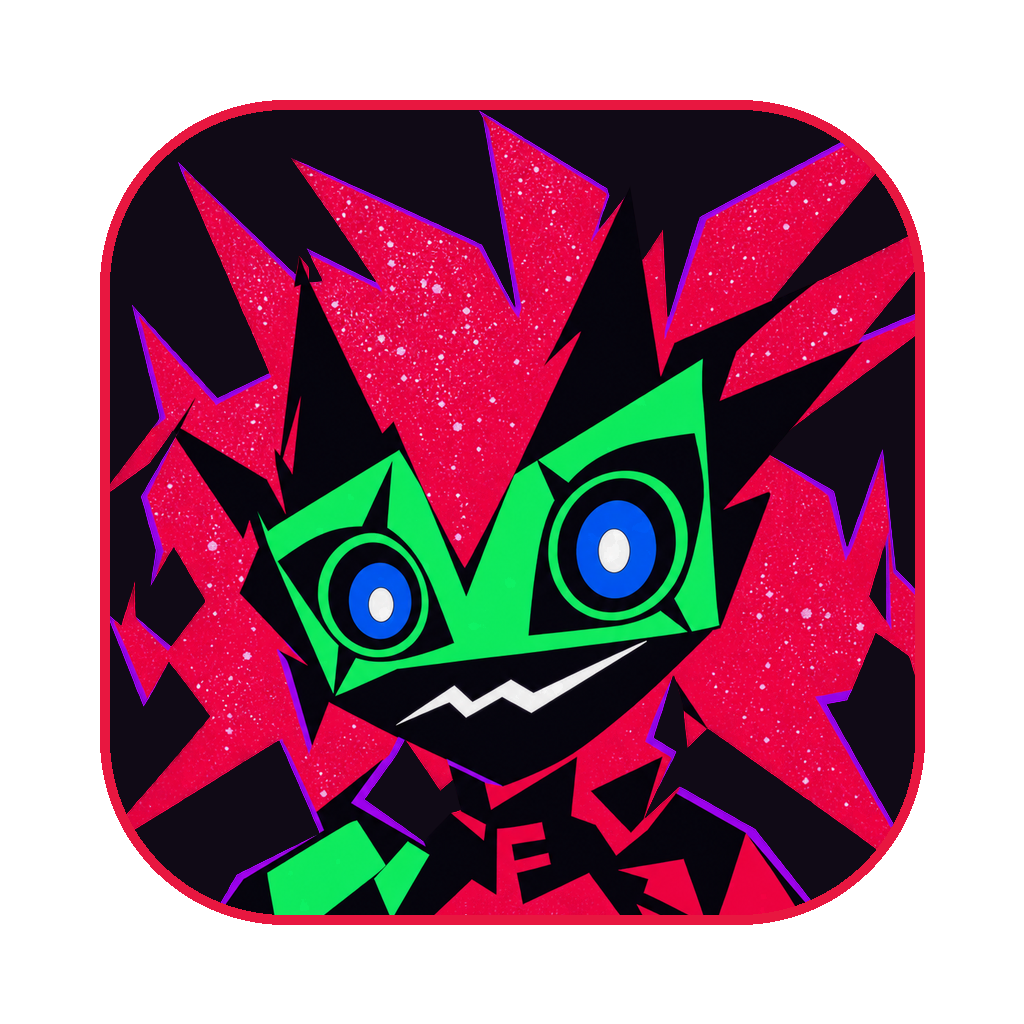
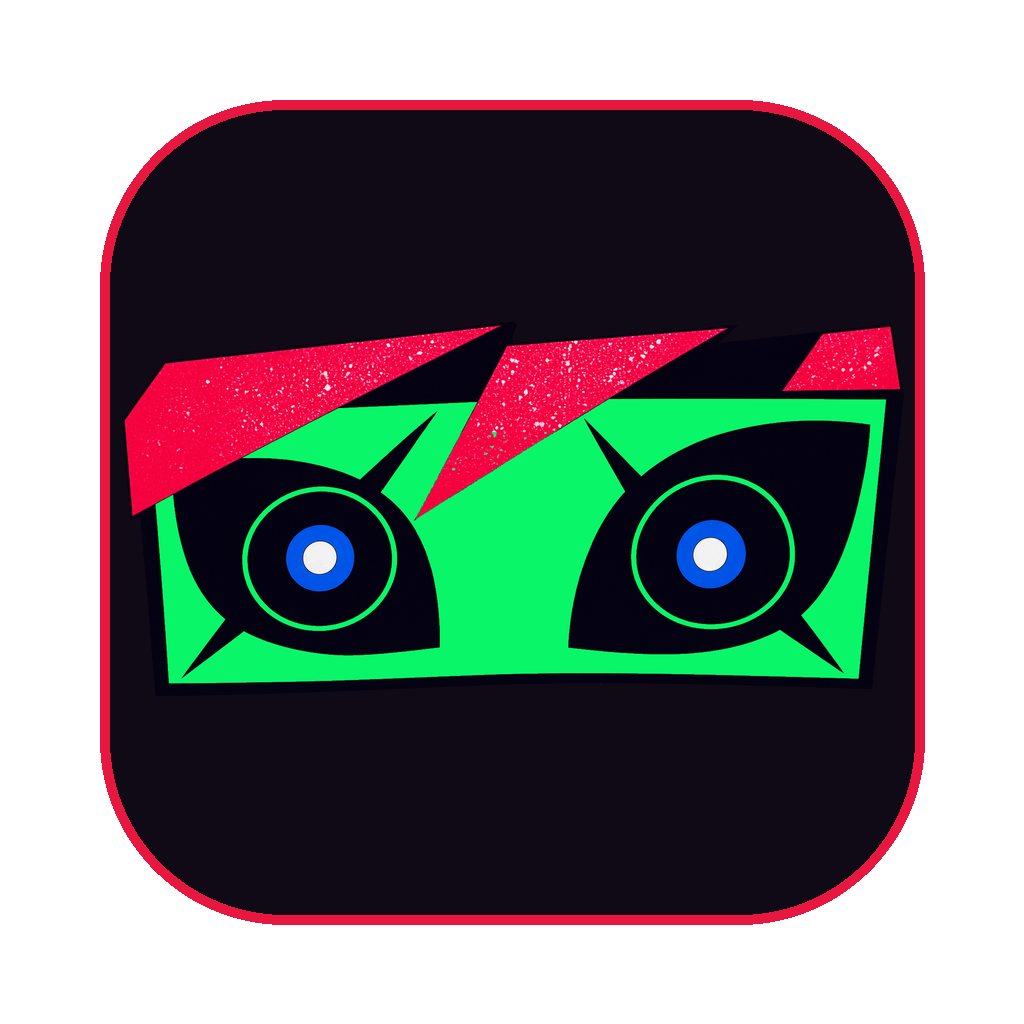
Replace Capri character with show-style eyes close-up animation

diff --git a/apps/macos/Sources/Capri/CapriSprite.swift b/apps/macos/Sources/Capri/CapriSprite.swift
@@ -1,14 +1,12 @@
 import SwiftUI
 import AppKit
 
-/// Арт Capri: кадры состояний, сгенерированные Codex по рефам (промпт и сырые кадры — локально в `work/art/v3/`,
-/// в репозитории только финальные кадры).
-/// Кадры одного кадрирования, отличаются только лицом — поэтому плавность даёт наложение: нижний кадр целиком,
-/// верхний поверх с прозрачностью. Поверх — лёгкие преобразования (дыхание, наклон, подскок, glitch).
+/// Арт Capri: её глаза крупным планом, как в сериале (зелёная полоса маски, глаза-миндалины с шипами).
+/// Кадры сгенерированы Codex по кадрам сериала (промпт и сырые кадры — локально в `work/art/v5/`, в репозитории
+/// только финальные кадры). Все кадры одного кадрирования, отличаются только глазами/ртом.
 enum CapriArt {
     enum Frame: String, CaseIterable {
-        case idle, blink, listen, think, speakA, speakB, alert
-        case mask, maskBlink = "mask-blink", maskAlert = "mask-alert"
+        case open, blink, squint, lookLeft = "look-left", lookRight = "look-right", slits, many, speakA, speakB
     }
 
     static let images: [Frame: NSImage] = {
@@ -20,6 +18,9 @@ enum CapriArt {
         return out
     }()
 
+    /// Пропорции кадра (ширина / высота).
+    static let aspect: CGFloat = 2
+
     /// В `.app` — `Contents/Resources/Capri/` (кладёт build-macos.sh); при `swift run` — бандл ресурсов SwiftPM
     /// рядом с исполняемым файлом (`Bundle.module` не используем: без бандла он падает).
     static func url(_ name: String) -> URL? {
@@ -29,136 +30,70 @@ enum CapriArt {
         return dev.url(forResource: name, withExtension: "png", subdirectory: "Capri")
             ?? dev.url(forResource: name, withExtension: "png")
     }
-}
 
-/// Кадр в момент времени: нижний `a`, верхний `b` с прозрачностью `mix`, преобразования.
-private struct SpritePose {
-    var a: CapriArt.Frame
-    var b: CapriArt.Frame
-    var mix: Double = 0
-    var scale: Double = 1
-    var angle: Double = 0
-    var dy: Double = 0
-    var jitter: Double = 0
-    var glow: Double = 0
-
-    static let blinkCycle = 4.3
-
-    /// Преобразования между позами (кадры смешиваются слоями отдельно); `e` — доля `self`.
-    func mixed(with from: SpritePose, _ e: Double) -> SpritePose {
-        func m(_ x: Double, _ y: Double) -> Double { x + (y - x) * e }
-        var o = self
-        o.scale = m(from.scale, scale); o.angle = m(from.angle, angle); o.dy = m(from.dy, dy)
-        o.jitter = m(from.jitter, jitter); o.glow = m(from.glow, glow)
-        return o
-    }
-
-    /// `still` — «Уменьшить движение»: один кадр без движения.
-    static func at(_ mood: CapriMood, _ t: Double, still: Bool) -> SpritePose {
-        let tt = still ? 0 : t
-        // Моргание: 0.06 с наплыв, 0.08 с закрыто, 0.06 с обратно.
-        func blinkMix(_ cycle: Double) -> Double {
-            guard !still else { return 0 }
-            let p = tt.truncatingRemainder(dividingBy: cycle)
-            if p < 0.06 { return p / 0.06 }
-            if p < 0.14 { return 1 }
-            if p < 0.2 { return 1 - (p - 0.14) / 0.06 }
-            return 0
-        }
+    /// Кадр настроения в момент `t` (секунды), `since` — секунды с начала настроения. Позы сменяются резко,
+    /// как в аниме, без наплыва. `still` — «Уменьшить движение» или пауза: один кадр.
+    static func frame(_ mood: CapriMood, t: Double, since: Double, still: Bool) -> Frame {
+        func blinking(_ cycle: Double) -> Bool { !still && t.truncatingRemainder(dividingBy: cycle) < 0.16 }
         switch mood {
         case .idle:
-            var s = SpritePose(a: .idle, b: .blink, mix: blinkMix(blinkCycle))
-            s.scale = 1 + 0.012 * sin(tt * 1.6)        // дыхание
-            s.angle = 1.2 * sin(tt * 0.5)
-            return s
+            guard !still else { return .open }
+            // Раз в ~11 с она «рассматривает»: прищур, взгляд влево, вправо; иначе — открытые глаза и моргание.
+            let p = t.truncatingRemainder(dividingBy: 11)
+            if p >= 7.5 && p < 8.1 { return .squint }
+            if p >= 8.1 && p < 9.1 { return .lookLeft }
+            if p >= 9.1 && p < 10.1 { return .lookRight }
+            return blinking(4.3) ? .blink : .open
         case .listening:
-            var s = SpritePose(a: .listen, b: .blink, mix: blinkMix(5.2))
-            s.scale = 1.02
-            s.angle = -2
-            return s
+            return blinking(5.2) ? .blink : .lookRight
         case .thinking:
-            var s = SpritePose(a: .think, b: .think)
-            s.angle = 3 * sin(tt * 1.3)
-            s.scale = 1 + 0.008 * sin(tt * 2.2)
-            return s
+            guard !still else { return .slits }
+            return t.truncatingRemainder(dividingBy: 1.6) < 0.8 ? .slits : .squint
         case .speaking:
-            // Рот: speakA ↔ speakB с наплывом, ~3.5 слога в секунду.
-            let m = still ? 0 : 0.5 + 0.5 * sin(tt * 22)
-            var s = SpritePose(a: .speakA, b: .speakB, mix: m)
-            s.dy = still ? 0 : -1.2 * abs(sin(tt * 11))
-            return s
+            guard !still else { return .speakA }
+            // Слоги: ~5 в секунду.
+            return Int(t * 5) % 2 == 0 ? .speakA : .speakB
         case .alert:
-            var s = SpritePose(a: .alert, b: .alert)
-            let p = tt.truncatingRemainder(dividingBy: 2.2)
-            s.dy = still ? 0 : (p < 0.45 ? -6 * sin(.pi * p / 0.45) : 0)
-            s.glow = 0.6 + (still ? 0 : 0.4 * sin(tt * 3))
-            return s
+            // Как в сериале: глаза закрываются, по маске расползается много глаз, потом снова открытые.
+            guard !still else { return .many }
+            let p = since.truncatingRemainder(dividingBy: 3.2)
+            if p < 0.35 { return .blink }
+            if p < 2.4 { return .many }
+            return .open
         case .error:
-            var s = SpritePose(a: .think, b: .think)
-            let p = tt.truncatingRemainder(dividingBy: 1.7)
-            s.jitter = still ? 0 : (p < 0.12 ? (p < 0.06 ? -3 : 3) : 0)
-            return s
+            return .slits
         }
     }
 }
 
-/// Анимированный арт Capri. Смена настроения — наплыв 0.3 с от прежнего кадра к новому.
+/// Анимированные глаза Capri. `active` — анимировать (виден и нужен); иначе статичный кадр.
 struct CapriSprite: View {
     var mood: CapriMood
     var active = true
 
-    @State private var fromMood: CapriMood = .idle
-    @State private var shownMood: CapriMood = .idle
-    @State private var changedAt = Date.distantPast
-
-    private static let transition = 0.3
+    @State private var changedAt = Date()
     private var still: Bool { NSWorkspace.shared.accessibilityDisplayShouldReduceMotion }
 
     var body: some View {
-        TimelineView(.animation(minimumInterval: 1.0 / 30, paused: !active || still)) { ctx in
-            // На паузе время не идёт — показываем кадр текущего настроения без перехода.
+        TimelineView(.animation(minimumInterval: 1 / CapriFace.fps, paused: !active || still)) { ctx in
             let animating = active && !still
-            let (from, target, e) = animating ? blend(ctx.date) : (nil, SpritePose.at(shownMood, 0, still: true), 1.0)
-            let p = from.map { target.mixed(with: $0, e) } ?? target
-            ZStack {
-                layers(target)
-                if let from, e < 1 { layers(from).opacity(1 - e) }
-            }
-            .drawingGroup()
-            .shadow(color: p.glow > 0.01 ? Palette.acid.opacity(0.55 * p.glow) : .clear, radius: p.glow > 0.01 ? 8 * p.glow : 0)
-            .scaleEffect(p.scale, anchor: .bottom)
-            .rotationEffect(.degrees(p.angle), anchor: .bottom)
-            .offset(x: p.jitter, y: p.dy)
+            let t = ctx.date.timeIntervalSinceReferenceDate
+            let f = CapriArt.frame(mood, t: t, since: max(0, ctx.date.timeIntervalSince(changedAt)), still: !animating)
+            // Ошибка: короткий глитч-сдвиг раз в 1.7 с.
+            let jitter: CGFloat = mood == .error && animating && t.truncatingRemainder(dividingBy: 1.7) < 0.12 ? 3 : 0
+            CapriArtImage(frame: f).offset(x: jitter)
         }
-        .onAppear { shownMood = mood; fromMood = mood }
-        .onChange(of: mood) { m in
-            fromMood = shownMood
-            shownMood = m
-            changedAt = Date()
-        }
+        .onChange(of: mood) { _ in changedAt = Date() }
         .accessibilityLabel(Text("Capri"))
     }
+}
 
-    /// Кадры позы: нижний целиком, верхний с прозрачностью.
-    private func layers(_ p: SpritePose) -> some View {
-        ZStack {
-            image(p.a)
-            if p.mix > 0.001 { image(p.b).opacity(p.mix) }
+/// Один кадр, вписанный с сохранением пропорций.
+struct CapriArtImage: View {
+    var frame: CapriArt.Frame
+    var body: some View {
+        if let im = CapriArt.images[frame] {
+            Image(nsImage: im).resizable().interpolation(.high).aspectRatio(contentMode: .fit)
         }
-    }
-
-    private func image(_ f: CapriArt.Frame) -> some View {
-        Group {
-            if let im = CapriArt.images[f] { Image(nsImage: im).resizable().interpolation(.high).aspectRatio(contentMode: .fit) }
-        }
-    }
-
-    /// Переход настроений: прежняя поза целиком (со своим морганием/речью) гаснет поверх новой, `e` — 0…1.
-    private func blend(_ date: Date) -> (SpritePose?, SpritePose, Double) {
-        let t = date.timeIntervalSinceReferenceDate
-        let target = SpritePose.at(shownMood, t, still: false)
-        let k = min(1, max(0, date.timeIntervalSince(changedAt) / Self.transition))
-        guard k < 1 else { return (nil, target, 1) }
-        return (SpritePose.at(fromMood, t, still: false), target, k * k * (3 - 2 * k))
     }
 }

diff --git a/apps/macos/Sources/Capri/CapriFace.swift b/apps/macos/Sources/Capri/CapriFace.swift
@@ -17,8 +17,8 @@ enum CapriMood: Equatable {
     case error
 }
 
-/// Вид Capri. `.bust` — голова и плечи (помощник, чат), `.mask` — только маска с глазами (свёрнутый notch).
-/// Кадры — арт, сгенерированный Codex по рефам (`CapriArt`). `active` — анимировать (виден и нужен).
+/// Вид Capri — её глаза крупным планом (`CapriArt`). `.bust` — с полной анимацией (помощник, чат),
+/// `.mask` — мини в свёрнутом notch: только моргание, «тебя ждут» — много глаз. `active` — анимировать.
 struct CapriFace: View {
     enum Style { case bust, mask }
     var mood: CapriMood
@@ -35,7 +35,7 @@ struct CapriFace: View {
     }
 }
 
-/// Мини-маска в свёрнутом notch: перерисовка только в кадры моргания (`EyesSchedule`), «тебя ждут» — свой кадр.
+/// Мини-глаза в свёрнутом notch: перерисовка только в кадры моргания (`EyesSchedule`), «тебя ждут» — много глаз.
 struct CapriMaskSprite: View {
     var mood: CapriMood
     var active = true
@@ -43,11 +43,8 @@ struct CapriMaskSprite: View {
 
     var body: some View {
         TimelineView(EyesSchedule(paused: !active || still || mood == .alert)) { ctx in
-            let frame: CapriArt.Frame = mood == .alert ? .maskAlert
-                : (!still && (EyesSchedule.blink(at: ctx.date) ?? 0) > 0.5 ? .maskBlink : .mask)
-            if let im = CapriArt.images[frame] {
-                Image(nsImage: im).resizable().interpolation(.high).aspectRatio(contentMode: .fit)
-            }
+            CapriArtImage(frame: mood == .alert ? .many
+                          : (!still && (EyesSchedule.blink(at: ctx.date) ?? 0) > 0.5 ? .blink : .open))
         }
         .accessibilityLabel(Text("Capri"))
     }

diff --git a/apps/macos/Sources/Capri/CodexViews.swift b/apps/macos/Sources/Capri/CodexViews.swift
@@ -120,7 +120,7 @@ struct CodexChatView: View {
                 // Анимация — только пока Capri думает или отвечает; иначе статичный кадр.
                 CapriFace(mood: assistantMood(codex: codex, waiting: store.waiting.count, typing: !question.isEmpty),
                           active: codex.chatBusy)
-                    .frame(width: 46, height: 46)
+                    .frame(width: 72, height: 36)
                 Caps("спросить capri", size: 13, color: Palette.text, weight: .heavy)
                 Caps("видит все сессии · секреты вырезаны · \(HotKey.assistant.label) — из notch", size: 8)
                 Spacer()

diff --git a/apps/macos/Sources/Capri/AssistantViews.swift b/apps/macos/Sources/Capri/AssistantViews.swift
@@ -62,7 +62,7 @@ struct AssistantView: View {
             HStack(alignment: .bottom, spacing: 10) {
                 CapriFace(mood: mood, active: ui.assistantShown)
                     .accessibilityHidden(true)
-                    .frame(width: 74, height: 74)
+                    .frame(width: 112, height: 56)
                 VStack(alignment: .leading, spacing: 5) {
                     HStack(spacing: 6) {
                         Text(">").font(.mono(13, .bold)).foregroundColor(Palette.codex)

diff --git a/apps/macos/Sources/Capri/NotchViews.swift b/apps/macos/Sources/Capri/NotchViews.swift
@@ -104,7 +104,7 @@ struct TopRowView: View {
         let waiting = store.waiting.count
         HStack(spacing: 0) {
             CapriFace(mood: waiting > 0 ? .alert : codex.chatBusy ? .thinking : .idle, style: .mask)
-                .frame(width: 24, height: 13)
+                .frame(width: 26, height: 13)
                 .help("Capri — спросить (⌃⌥Space)")
             Spacer(minLength: ui.hasNotch ? notchWidth : 8)
             HStack(spacing: 7) {

diff --git a/docs/VALIDATION.md b/docs/VALIDATION.md
@@ -1,6 +1,18 @@
 # Проверки Capri
 
-## Арт Capri v4 от Codex · 2026-10-30
+## Арт Capri v5 — глаза крупным планом · 2026-10-30
+
+- v4 («лучше, но не идеально»): для моноброви целый персонаж не нужен — как в сериале, хватает её глаз крупным
+  планом. Кадры сериала (YouTube, локально в `work/research/yt/`, не в git): Capri рассматривает в упор, закрывает
+  глаза, по маске расползается много глаз. Последовательность — рефы для Codex (`work/art/v5/refs`).
+- Codex (локально, `work/art/v5/`): полоса маски 2:1 — open, затем правки: blink, squint, look-left, look-right,
+  slits, many, speakA, speakB. Склейка (`compose5.py`): зелёная панель выравнивается в один цвет, из правок
+  берутся только изменившиеся глаза поверх open (без дрожания гривы); 512×256. Значок — open на тёмной плашке.
+- Показ: те же кадры в notch (26×13 pt), в помощнике (112×56) и Codex (72×36). idle — моргание и раз в ~11 с
+  «рассматривает» (прищур, взгляд влево-вправо); alert — закрыть глаза → много глаз → открыть.
+- Проверено: все кадры просмотрены до установки; 96 тестов; снимки notch на Маке (свёрнутый и помощник).
+
+## Арт Capri v4 от Codex · 2026-10-30 (заменён v5)
 
 - v3 («лучше, но не то»): лицо чёрное с зелёными пятнами, грива закрывала лицо, нет блёсток. Собраны рефы:
   8 от Тимофея + кадры capri-desktop (лица, cut-in, интро) + cutouts capri-companion, склеены в две доски

diff --git a/docs/plans/2026-10-30-capri-design-research.md b/docs/plans/2026-10-30-capri-design-research.md
@@ -80,6 +80,14 @@ capri-companion. Всё только как рефы для генерации, 
 Инструмент генерации Codex берёт не больше 5 картинок, поэтому рефы склеены в две доски (крупные планы лица;
 силуэт и грива) + 3 отдельных кадра.
 
+## v5 — только глаза (после «лучше, но не идеально»)
+
+Тимофей: моноброви не нужен целый персонаж — хватит её глаз крупным планом, как в сериале. В эпизодах с Capri
+(YouTube, кадры отобраны по доле зелёного и синего) есть канонический ход: глаза в упор рассматривают →
+закрываются → по маске открывается много глаз. Это и стало набором кадров: open, blink, squint, look-left,
+look-right, slits, many, speakA, speakB — одна полоса маски 2:1, idle «рассматривает», alert — «много глаз».
+Кадры сериала — только рефы (`work/`), в репозиторий не попадают.
+
 ## Дальше (не сделано)
 
 - Механика notch из coucou: ширина выреза по `auxiliaryTop*Area`, пружины открытия/закрытия — сверить с нашими.
